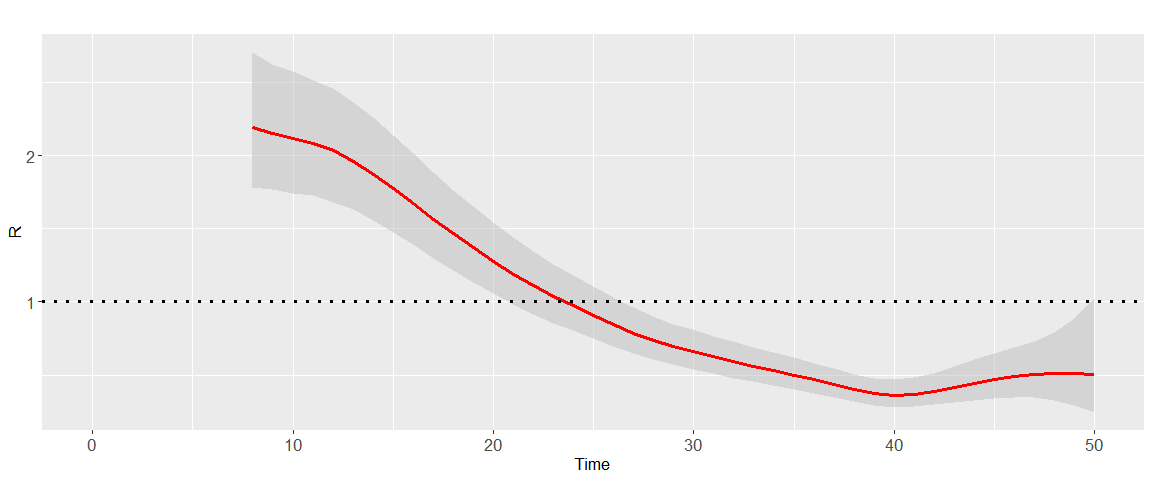
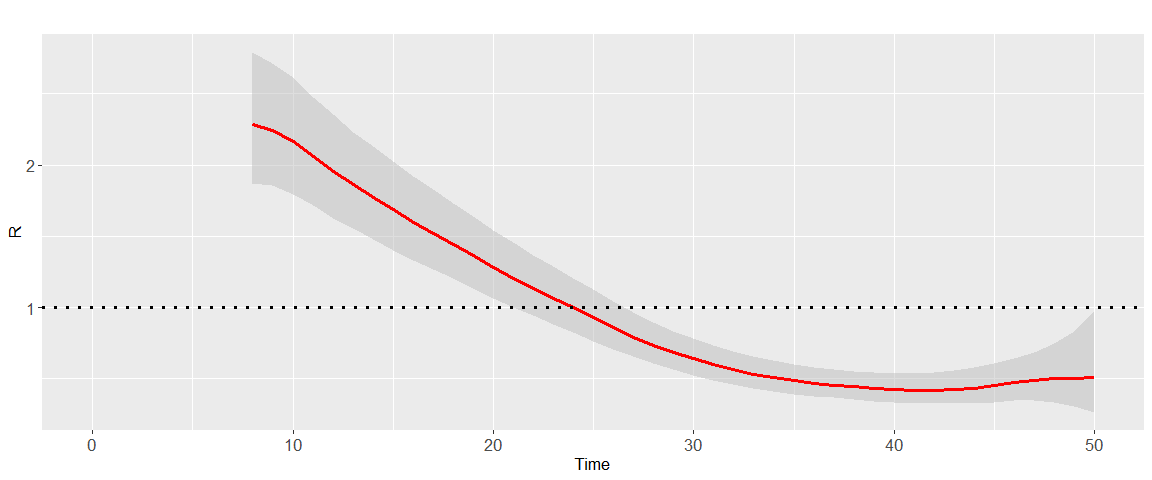
Update 2021-11-12

diff --git a/README.md b/README.md
@@ -1,8 +1,7 @@
-EpiLPS: A new Bayesian tool for estimating the time-varying reproduction
-number
+EpiLPS: a fast and flexible Bayesian tool for near real-time estimation
+of the time-varying reproduction number
 ================
-Oswaldo Gressani [1] ,Jacco Wallinga [2] ,Christian Althaus [3] ,Niel
-Hens [4] ,Christel Faes [5]
+Oswaldo Gressani [1]
 
 <!-- Introduce badges -->
 
@@ -124,9 +123,9 @@ The simulated incidence count data can be accessed by typing:
 simepi$y
 ```
 
-    ##  [1]  19   6  10  25  37  47  60  69 103 133 178 235 283 347 449 505 589 627 709
-    ## [20] 802 771 770 747 774 761 616 569 513 430 391 306 245 210 162 115  95  77  55
-    ## [39]  29  21  13  21   9   7   6   5   4   6   1   2
+    ##  [1]  24   7  17  33  41  56  72 104 130 199 222 272 352 461 517 560 684 773 866
+    ## [20] 865 926 913 969 924 900 788 681 631 558 430 378 275 252 184 131 101  94  61
+    ## [39]  48  28  27  26  12   8   8   9   7   5   1   4
 
 The `epilps()` routine can be used to fit the epidemic data. By default,
 the LPSMAP approach is used with 30 B-splines in the interval \[1; 50\]
@@ -139,9 +138,9 @@ epifit_LPSMAP <- epilps(incidence = simepi$y, serial_interval = si)
 
     ## Inference method chosen: LPSMAP. 
     ## Total number of days: 50. 
-    ## Mean R(t) discarding first 7 days: 0.975.
-    ## Mean 95% CI of R(t) discarding first 7 days: (0.786,1.217) 
-    ## Elapsed real time (wall clock time): 0.18 seconds.
+    ## Mean R(t) discarding first 7 days: 0.974.
+    ## Mean 95% CI of R(t) discarding first 7 days: (0.791,1.204) 
+    ## Elapsed real time (wall clock time): 0.17 seconds.
 
 ``` r
 plot(epifit_LPSMAP)
@@ -176,13 +175,13 @@ knitr::kable(epifit_LPSMAP$epifit[8:14,1:3])
 
 |     | R\_estim | R95CI\_low | R95CI\_up |
 |:----|---------:|-----------:|----------:|
-| 8   | 2.196644 |   1.782825 |  2.706517 |
-| 9   | 2.154161 |   1.767416 |  2.625533 |
-| 10  | 2.120227 |   1.742247 |  2.580211 |
-| 11  | 2.085096 |   1.726031 |  2.518857 |
-| 12  | 2.034957 |   1.681605 |  2.462559 |
-| 13  | 1.963093 |   1.630694 |  2.363246 |
-| 14  | 1.875193 |   1.556359 |  2.259342 |
+| 8   | 2.286240 |   1.874062 |  2.789071 |
+| 9   | 2.245393 |   1.857539 |  2.714232 |
+| 10  | 2.165929 |   1.792218 |  2.617567 |
+| 11  | 2.062015 |   1.716555 |  2.477000 |
+| 12  | 1.956527 |   1.625819 |  2.354504 |
+| 13  | 1.862789 |   1.555603 |  2.230635 |
+| 14  | 1.774048 |   1.477996 |  2.129400 |
 
 A smooth estimate of the epidemic curve can be obtained with the code
 below. The option `epicol` controls the color of the curve and
@@ -272,23 +271,7 @@ during epidemics, *American Journal of Epidemiology*, **178**(9),
 
 <hr>
 
-### Author affiliations
+### Author affiliation
 
 [1] Interuniversity Institute for Biostatistics and Statistical
-Bioinformatics, Data Science Institute, Hasselt University, Belgium.
-
-[2] \(a\) Centre for Infectious Disease Control, National Institute for
-Public Health and the Environment, Bilthoven, The Netherlands. (b)
-Department of Biomedical Data Sciences, Leiden University Medical
-Centre, Leiden, The Netherlands.
-
-[3] Institute of Social and Preventive Medicine, University of Bern,
-Bern, Switzerland.
-
-[4] \(c\) Interuniversity Institute for Biostatistics and Statistical
-Bioinformatics, Data Science Institute, Hasselt University, Belgium. (d)
-Centre for Health Economics Research and Modelling Infectious Diseases,
-Vaxinfectio, University of Antwerp, Belgium.
-
-[5] Interuniversity Institute for Biostatistics and Statistical
 Bioinformatics, Data Science Institute, Hasselt University, Belgium.
